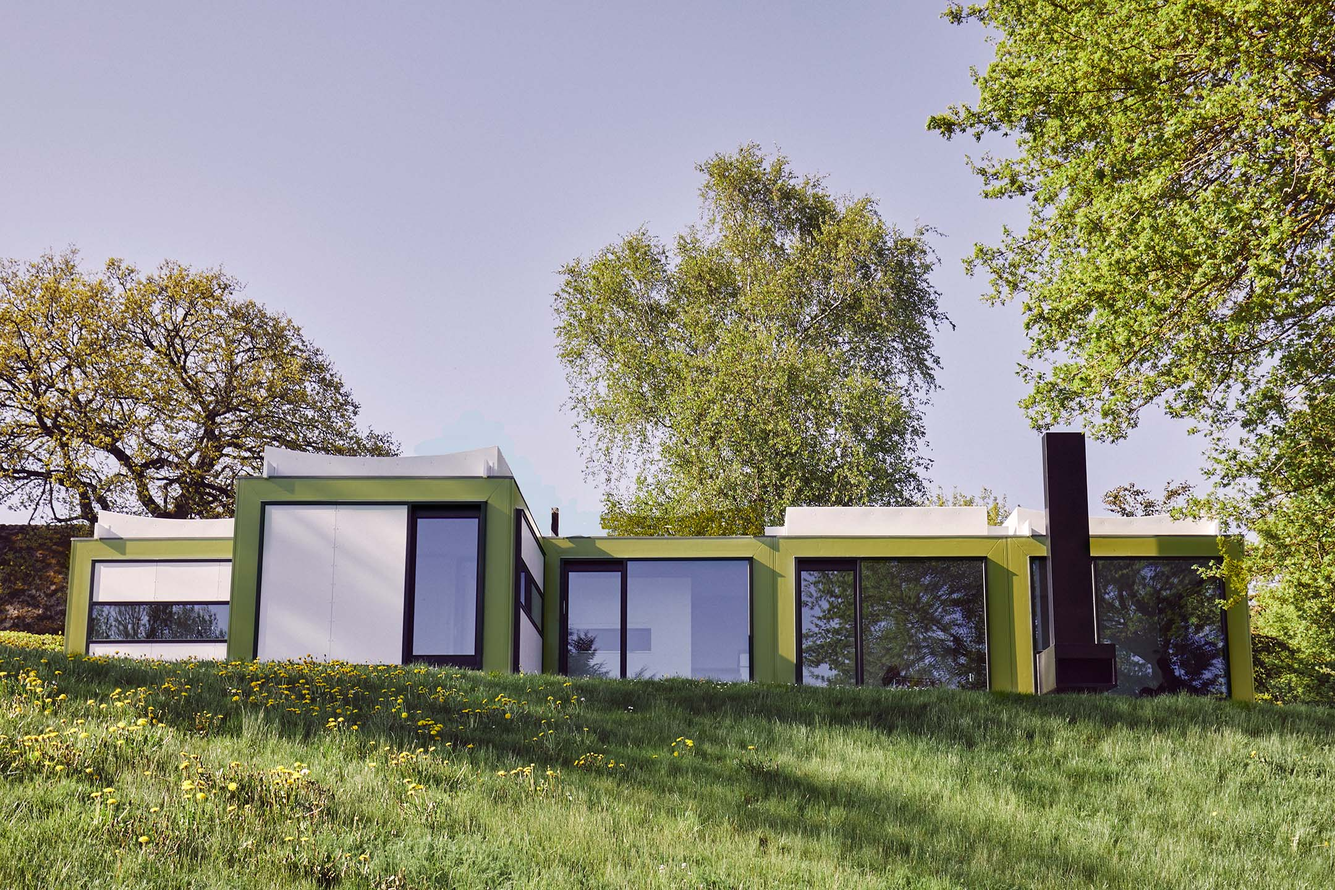
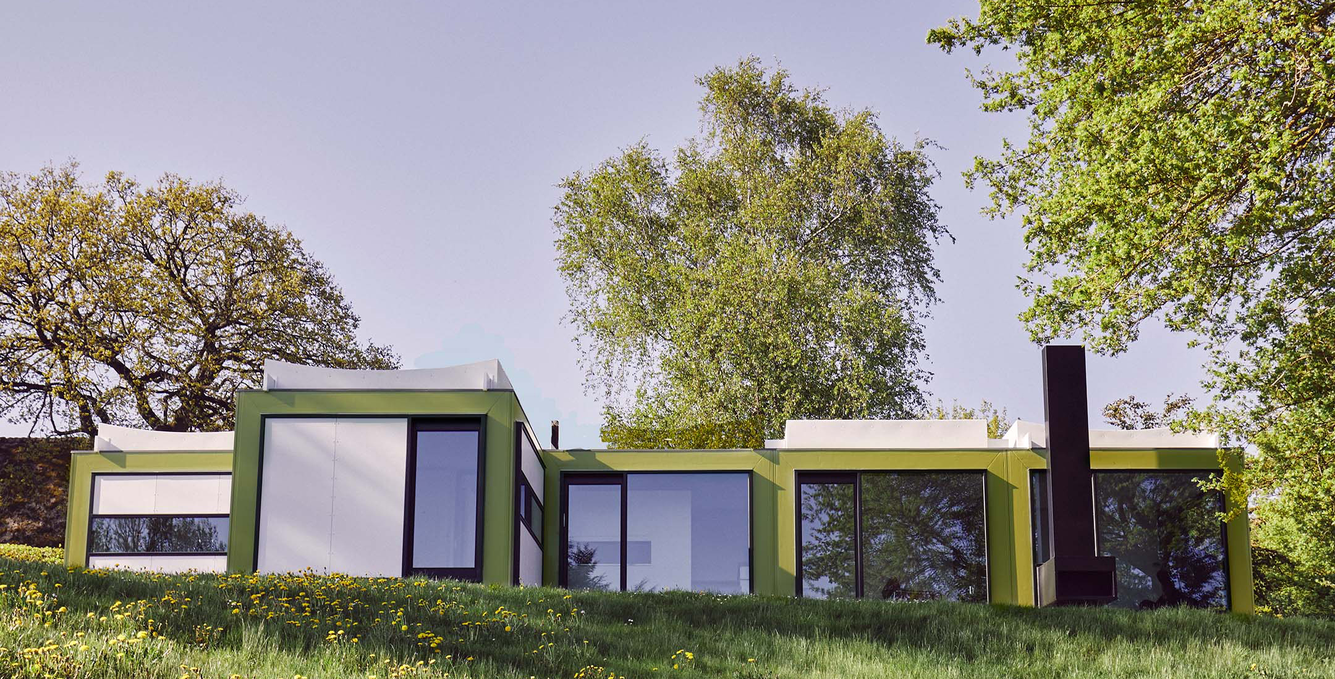
Fixed front picture

diff --git a/index.html b/index.html
@@ -9,7 +9,14 @@
 </head>
 <body>
   <div class="container-fluid g-0">
-    <img src="img/Kubeflex.jpg" class="img-fluid" alt="bootstrap" height="960px">
+    <img src="img/Kubeflex.jpg" class="img-fluid" alt="bootstrap">
+
+    <div class="clearfix">
+      <img src="#" class="col-md-6 float-md-end mb-3 ms-md-3" alt="bootstrap">
+      <!-- Make p tags here for the text -->
+    </div>
+
+    
   </div>
 
 

diff --git a/css/main.css b/css/main.css
@@ -1,34 +1,3 @@
 .body{
   background-color: #FFFFFF;
 }
-
-.img-fluid{
-  background-color: aqua;
-  /* height: 960px; */
-}
-
-
-
-
-
-
-
-
-
-
-
-
-
-
-
-
-
-
-
-
-
-
-/* .hero-image{
-  background-color: aquamarine;
-  height: 720px;
-} */
